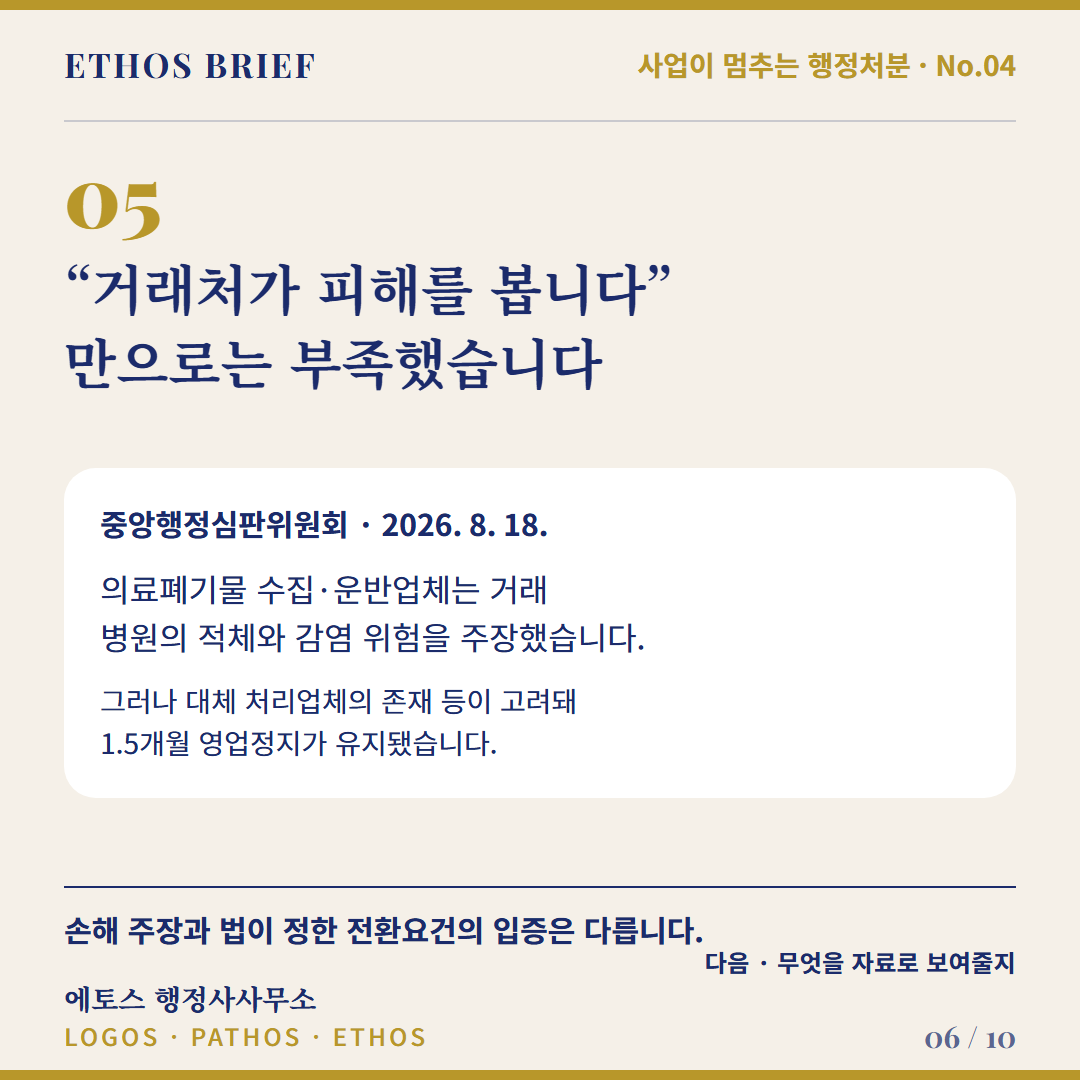
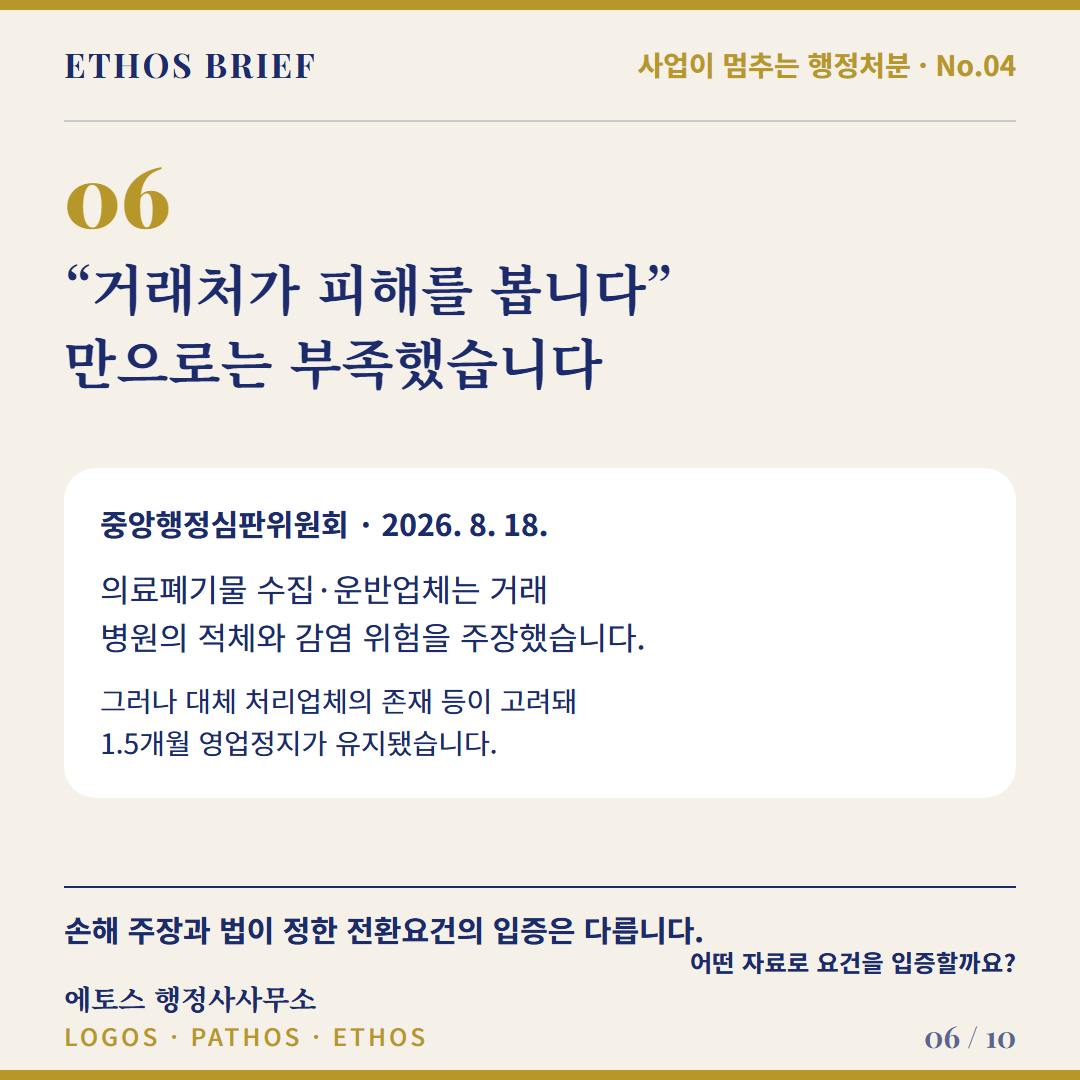
fix: clarify card navigation and numbering

Changed region(s): [[0.6417, 0.8556, 0.9472, 0.9167], [0.0917, 0.1528, 0.1528, 0.2139]]

diff --git a/content/SUSPENSION-SURCHARGE-04/ko/card_07.html b/content/SUSPENSION-SURCHARGE-04/ko/card_07.html
@@ -5,16 +5,16 @@
 <link rel="stylesheet" href="../../../templates/base.css">
 <link rel="stylesheet" href="../../../templates/card-types.css">
 </head><body>
-<div class="card cream lang-ko" data-card-type="checklist" data-bg="cream" data-page="7">
+<div class="card navy lang-ko" data-card-type="checklist" data-bg="navy" data-page="7">
   <div class="gold-top" data-frame="gold-top"></div>
   <div class="hdr"><span class="wm" data-frame="wordmark">ETHOS BRIEF</span><span class="sec" data-frame="section">사업이 멈추는 행정처분 · No.04</span></div>
   <div class="hl" data-frame="line"></div>
   <div class="body">
-    <div class="z-title" data-zone="title"><div class="kicker-num" data-decor>06</div><h2 class="h2" data-role="headline">폐기물 사건이라면, 이 자료가 판단을 만듭니다</h2></div>
+    <div class="z-title" data-zone="title"><div class="kicker-num" data-decor>07</div><h2 class="h2" data-role="headline">폐기물 사건이라면, 이 자료가 판단을 만듭니다</h2></div>
     <div class="z-main" data-zone="main"><div class="thresholds"><div class="threshold"><div class="threshold-key" data-role="label">1</div><div class="threshold-copy">보관량·거래처별 발생량</div></div><div class="threshold"><div class="threshold-key" data-role="label">2</div><div class="threshold-copy">반출주기·최대 보관기간</div></div><div class="threshold"><div class="threshold-key" data-role="label">3</div><div class="threshold-copy">영업정지 중 예상 적체량</div></div><div class="threshold"><div class="threshold-key" data-role="label">4</div><div class="threshold-copy">대체업체·대체계약 가능성</div></div></div></div>
     <div class="z-take" data-zone="take"><div class="take" data-role="takeaway">자료의 양보다 법정 요건과 연결되는지가 중요합니다.</div></div>
   </div>
-  <div class="page-turn" data-role="note">다음 · 가능성과 유리함은 다름</div>
+  <div class="page-turn" data-role="note">전환할 수 있으면 정말 유리할까요?</div>
   <div class="ftr"><div class="org" data-frame="org">에토스 행정사사무소</div><div class="tagl" data-frame="tagline">LOGOS · PATHOS · ETHOS</div><div class="pg" data-frame="page">07 / 10</div></div>
   <div class="gold-bottom" data-frame="gold-bottom"></div>
 </div></body></html>

diff --git a/content/SUSPENSION-SURCHARGE-04/en/card_07.html b/content/SUSPENSION-SURCHARGE-04/en/card_07.html
@@ -5,16 +5,16 @@
 <link rel="stylesheet" href="../../../templates/base.css">
 <link rel="stylesheet" href="../../../templates/card-types.css">
 </head><body>
-<div class="card cream lang-en" data-card-type="checklist" data-bg="cream" data-page="7">
+<div class="card navy lang-en" data-card-type="checklist" data-bg="navy" data-page="7">
   <div class="gold-top" data-frame="gold-top"></div>
   <div class="hdr"><span class="wm" data-frame="wordmark">ETHOS BRIEF</span><span class="sec" data-frame="section">Business Suspension · No.04</span></div>
   <div class="hl" data-frame="line"></div>
   <div class="body">
-    <div class="z-title" data-zone="title"><div class="kicker-num" data-decor>06</div><h2 class="h2" data-role="headline">For a waste case, these records shape the analysis</h2></div>
+    <div class="z-title" data-zone="title"><div class="kicker-num" data-decor>07</div><h2 class="h2" data-role="headline">For a waste case, these records shape the analysis</h2></div>
     <div class="z-main" data-zone="main"><div class="thresholds"><div class="threshold"><div class="threshold-key" data-role="label">1</div><div class="threshold-copy">Stored volume and client generation</div></div><div class="threshold"><div class="threshold-key" data-role="label">2</div><div class="threshold-copy">Collection cycle and maximum storage period</div></div><div class="threshold"><div class="threshold-key" data-role="label">3</div><div class="threshold-copy">Expected buildup during suspension</div></div><div class="threshold"><div class="threshold-key" data-role="label">4</div><div class="threshold-copy">Alternative operators and contracting options</div></div></div></div>
     <div class="z-take" data-zone="take"><div class="take" data-role="takeaway">Relevance to the statutory test matters more than document volume.</div></div>
   </div>
-  <div class="page-turn" data-role="note">NEXT · Available does not mean advisable</div>
+  <div class="page-turn" data-role="note">If conversion is available, is it actually better?</div>
   <div class="ftr"><div class="org" data-frame="org">Ethos Administrative Office</div><div class="tagl" data-frame="tagline">LOGOS · PATHOS · ETHOS</div><div class="pg" data-frame="page">07 / 10</div></div>
   <div class="gold-bottom" data-frame="gold-bottom"></div>
 </div></body></html>

diff --git a/content/SUSPENSION-SURCHARGE-04/ko/card_02.html b/content/SUSPENSION-SURCHARGE-04/ko/card_02.html
@@ -10,11 +10,11 @@
   <div class="hdr"><span class="wm" data-frame="wordmark">ETHOS BRIEF</span><span class="sec" data-frame="section">사업이 멈추는 행정처분 · No.04</span></div>
   <div class="hl" data-frame="line"></div>
   <div class="body">
-    <div class="z-title" data-zone="title"><div class="kicker-num" data-decor>01</div><h2 class="h2" data-role="headline">과징금 계산보다 먼저, 네 가지를 확인하세요</h2></div>
+    <div class="z-title" data-zone="title"><div class="kicker-num" data-decor>02</div><h2 class="h2" data-role="headline">과징금 계산보다 먼저, 네 가지를 확인하세요</h2></div>
     <div class="z-main" data-zone="main"><div class="thresholds"><div class="threshold"><div class="threshold-key" data-role="label">1</div><div class="threshold-copy">① 근거법률에 과징금 규정이 있나요?</div></div><div class="threshold"><div class="threshold-key" data-role="label">2</div><div class="threshold-copy">② 이번 위반은 제외대상인가요?</div></div><div class="threshold"><div class="threshold-key" data-role="label">3</div><div class="threshold-copy">③ 과거 처분 때문에 제한되나요?</div></div><div class="threshold"><div class="threshold-key" data-role="label">4</div><div class="threshold-copy">④ 가능하다면 실제로 유리한가요?</div></div></div></div>
     <div class="z-take" data-zone="take"><div class="editorial-close" data-role="takeaway">가능성과 실익은 서로 다른 질문입니다.</div></div>
   </div>
-  <div class="page-turn" data-role="note">다음 · 실제로 바뀐 사건</div>
+  <div class="page-turn" data-role="note">위반이 인정돼도 처분형태가 바뀔까요?</div>
   <div class="ftr"><div class="org" data-frame="org">에토스 행정사사무소</div><div class="tagl" data-frame="tagline">LOGOS · PATHOS · ETHOS</div><div class="pg" data-frame="page">02 / 10</div></div>
   <div class="gold-bottom" data-frame="gold-bottom"></div>
 </div></body></html>

diff --git a/content/SUSPENSION-SURCHARGE-04/ko/card_09.html b/content/SUSPENSION-SURCHARGE-04/ko/card_09.html
@@ -10,11 +10,11 @@
   <div class="hdr"><span class="wm" data-frame="wordmark">ETHOS BRIEF</span><span class="sec" data-frame="section">사업이 멈추는 행정처분 · No.04</span></div>
   <div class="hl" data-frame="line"></div>
   <div class="body">
-    <div class="z-title" data-zone="title"><div class="kicker-num" data-decor>08</div><h2 class="h2" data-role="headline">과징금으로 바뀌면 위반기록도 없어질까요?</h2></div>
+    <div class="z-title" data-zone="title"><div class="kicker-num" data-decor>09</div><h2 class="h2" data-role="headline">과징금으로 바뀌면 위반기록도 없어질까요?</h2></div>
     <div class="z-main" data-zone="main"><div class="rule-list"><div class="rule-item"><div class="rule-key" data-role="subheading"></div><div class="rule-copy">그렇지 않습니다.</div></div><div class="rule-item"><div class="rule-key" data-role="subheading"></div><div class="rule-copy">서울 사건에서도 위반사실은 인정됐고, 달라진 것은 처분형태였습니다.</div></div><div class="rule-item"><div class="rule-key" data-role="subheading"></div><div class="rule-copy">같은 위반이 다시 생겼을 때의 처분기준과 전환 제한은 해당 법률에 따라 따로 확인해야 합니다.</div></div></div></div>
     <div class="z-take" data-zone="take"><div class="editorial-close" data-role="takeaway">당장의 영업정지뿐 아니라 다음 처분에 미칠 영향까지 보세요.</div></div>
   </div>
-  <div class="page-turn" data-role="note">다음 · 최종 판단 순서</div>
+  <div class="page-turn" data-role="note">최종 결정은 어떤 순서로 해야 할까요?</div>
   <div class="ftr"><div class="org" data-frame="org">에토스 행정사사무소</div><div class="tagl" data-frame="tagline">LOGOS · PATHOS · ETHOS</div><div class="pg" data-frame="page">09 / 10</div></div>
   <div class="gold-bottom" data-frame="gold-bottom"></div>
 </div></body></html>

diff --git a/content/SUSPENSION-SURCHARGE-04/en/card_02.html b/content/SUSPENSION-SURCHARGE-04/en/card_02.html
@@ -10,11 +10,11 @@
   <div class="hdr"><span class="wm" data-frame="wordmark">ETHOS BRIEF</span><span class="sec" data-frame="section">Business Suspension · No.04</span></div>
   <div class="hl" data-frame="line"></div>
   <div class="body">
-    <div class="z-title" data-zone="title"><div class="kicker-num" data-decor>01</div><h2 class="h2" data-role="headline">Before estimating the amount, run these four checks</h2></div>
+    <div class="z-title" data-zone="title"><div class="kicker-num" data-decor>02</div><h2 class="h2" data-role="headline">Before estimating the amount, run these four checks</h2></div>
     <div class="z-main" data-zone="main"><div class="thresholds"><div class="threshold"><div class="threshold-key" data-role="label">1</div><div class="threshold-copy">1 Does the governing Act allow a surcharge?</div></div><div class="threshold"><div class="threshold-key" data-role="label">2</div><div class="threshold-copy">2 Is this violation excluded?</div></div><div class="threshold"><div class="threshold-key" data-role="label">3</div><div class="threshold-copy">3 Does a prior disposition restrict it?</div></div><div class="threshold"><div class="threshold-key" data-role="label">4</div><div class="threshold-copy">4 If available, would it actually help?</div></div></div></div>
     <div class="z-take" data-zone="take"><div class="editorial-close" data-role="takeaway">Legal availability and business value are different questions.</div></div>
   </div>
-  <div class="page-turn" data-role="note">NEXT · A suspension that changed</div>
+  <div class="page-turn" data-role="note">Can the disposition change when the violation remains?</div>
   <div class="ftr"><div class="org" data-frame="org">Ethos Administrative Office</div><div class="tagl" data-frame="tagline">LOGOS · PATHOS · ETHOS</div><div class="pg" data-frame="page">02 / 10</div></div>
   <div class="gold-bottom" data-frame="gold-bottom"></div>
 </div></body></html>

diff --git a/content/SUSPENSION-SURCHARGE-04/ko/card_04.html b/content/SUSPENSION-SURCHARGE-04/ko/card_04.html
@@ -10,11 +10,11 @@
   <div class="hdr"><span class="wm" data-frame="wordmark">ETHOS BRIEF</span><span class="sec" data-frame="section">사업이 멈추는 행정처분 · No.04</span></div>
   <div class="hl" data-frame="line"></div>
   <div class="body">
-    <div class="z-title" data-zone="title"><div class="kicker-num" data-decor>03</div><h2 class="h2" data-role="headline">음식점·폐기물·건설업, 출발점이 다릅니다</h2></div>
+    <div class="z-title" data-zone="title"><div class="kicker-num" data-decor>04</div><h2 class="h2" data-role="headline">음식점·폐기물·건설업, 출발점이 다릅니다</h2></div>
     <div class="z-main" data-zone="main"><div class="split"><div class="split-col"><div class="split-title" data-role="subheading">음식점</div><div class="split-copy">과징금 규정이 있어도 위반유형·차수·제외대상을 확인</div></div><div class="split-col"><div class="split-title" data-role="subheading">폐기물</div><div class="split-copy">법정 전환요건과 과거 과징금 처분까지 확인</div></div><div class="split-col"><div class="split-title" data-role="subheading">건설업</div><div class="split-copy">제82조 처분인지 제83조 등록기준 문제인지 구분</div></div></div></div>
     <div class="z-take" data-zone="take"><div class="take" data-role="takeaway">업종명보다 처분근거 조항을 먼저 보세요.</div></div>
   </div>
-  <div class="page-turn" data-role="note">다음 · 전환 가능성 거르기</div>
+  <div class="page-turn" data-role="note">전환 가능성은 어떤 순서로 걸러낼까요?</div>
   <div class="ftr"><div class="org" data-frame="org">에토스 행정사사무소</div><div class="tagl" data-frame="tagline">LOGOS · PATHOS · ETHOS</div><div class="pg" data-frame="page">04 / 10</div></div>
   <div class="gold-bottom" data-frame="gold-bottom"></div>
 </div></body></html>

diff --git a/content/SUSPENSION-SURCHARGE-04/ko/card_05.html b/content/SUSPENSION-SURCHARGE-04/ko/card_05.html
@@ -10,11 +10,11 @@
   <div class="hdr"><span class="wm" data-frame="wordmark">ETHOS BRIEF</span><span class="sec" data-frame="section">사업이 멈추는 행정처분 · No.04</span></div>
   <div class="hl" data-frame="line"></div>
   <div class="body">
-    <div class="z-title" data-zone="title"><div class="kicker-num" data-decor>04</div><h2 class="h2" data-role="headline">과징금 전환 가능성, 이 순서로 거르세요</h2></div>
+    <div class="z-title" data-zone="title"><div class="kicker-num" data-decor>05</div><h2 class="h2" data-role="headline">과징금 전환 가능성, 이 순서로 거르세요</h2></div>
     <div class="z-main" data-zone="main"><div class="process-steps"><div class="process-step"><div class="process-num" data-decor>01</div><div class="process-copy">1 근거 규정</div></div><div class="process-step"><div class="process-num" data-decor>02</div><div class="process-copy">2 제외대상</div></div><div class="process-step"><div class="process-num" data-decor>03</div><div class="process-copy">3 과거 처분 제한</div></div><div class="process-step"><div class="process-num" data-decor>04</div><div class="process-copy">4 법정 실질요건</div></div></div></div>
     <div class="z-take" data-zone="take"><div class="editorial-close" data-role="takeaway">앞 단계에서 막히면 금액 계산보다 다른 대응방향을 먼저 검토합니다.</div></div>
   </div>
-  <div class="page-turn" data-role="note">다음 · 사정 호소가 부족한 이유</div>
+  <div class="page-turn" data-role="note">손해를 주장하는 것만으로 충분할까요?</div>
   <div class="ftr"><div class="org" data-frame="org">에토스 행정사사무소</div><div class="tagl" data-frame="tagline">LOGOS · PATHOS · ETHOS</div><div class="pg" data-frame="page">05 / 10</div></div>
   <div class="gold-bottom" data-frame="gold-bottom"></div>
 </div></body></html>

diff --git a/content/SUSPENSION-SURCHARGE-04/ko/card_08.html b/content/SUSPENSION-SURCHARGE-04/ko/card_08.html
@@ -10,11 +10,11 @@
   <div class="hdr"><span class="wm" data-frame="wordmark">ETHOS BRIEF</span><span class="sec" data-frame="section">사업이 멈추는 행정처분 · No.04</span></div>
   <div class="hl" data-frame="line"></div>
   <div class="body">
-    <div class="z-title" data-zone="title"><div class="kicker-num" data-decor>07</div><h2 class="h2" data-role="headline">바꿀 수 있어도, 유리한지는 다시 계산해야 합니다</h2></div>
+    <div class="z-title" data-zone="title"><div class="kicker-num" data-decor>08</div><h2 class="h2" data-role="headline">바꿀 수 있어도, 유리한지는 다시 계산해야 합니다</h2></div>
     <div class="z-main" data-zone="main"><div class="split"><div class="split-col"><div class="split-title" data-role="subheading">과징금 전환 시</div><div class="split-copy">예상 과징금</div></div><div class="split-col"><div class="split-title" data-role="subheading">영업정지 유지 시</div><div class="split-copy">예상 영업손실 및 계속 나가는 고정비</div></div><div class="split-col"><div class="split-title" data-role="subheading">별도 확인</div><div class="split-copy">향후 반복위반 판단에 미칠 영향</div></div></div></div>
     <div class="z-take" data-zone="take"><div class="editorial-close" data-role="takeaway">가능하다는 결론 뒤에 비용과 다음 처분까지 비교하세요.</div></div>
   </div>
-  <div class="page-turn" data-role="note">다음 · 위반기록은 남는지</div>
+  <div class="page-turn" data-role="note">과징금으로 바뀌면 위반기록도 없어질까요?</div>
   <div class="ftr"><div class="org" data-frame="org">에토스 행정사사무소</div><div class="tagl" data-frame="tagline">LOGOS · PATHOS · ETHOS</div><div class="pg" data-frame="page">08 / 10</div></div>
   <div class="gold-bottom" data-frame="gold-bottom"></div>
 </div></body></html>

diff --git a/content/SUSPENSION-SURCHARGE-04/en/card_05.html b/content/SUSPENSION-SURCHARGE-04/en/card_05.html
@@ -10,11 +10,11 @@
   <div class="hdr"><span class="wm" data-frame="wordmark">ETHOS BRIEF</span><span class="sec" data-frame="section">Business Suspension · No.04</span></div>
   <div class="hl" data-frame="line"></div>
   <div class="body">
-    <div class="z-title" data-zone="title"><div class="kicker-num" data-decor>04</div><h2 class="h2" data-role="headline">Screen surcharge eligibility in this order</h2></div>
+    <div class="z-title" data-zone="title"><div class="kicker-num" data-decor>05</div><h2 class="h2" data-role="headline">Screen surcharge eligibility in this order</h2></div>
     <div class="z-main" data-zone="main"><div class="process-steps"><div class="process-step"><div class="process-num" data-decor>01</div><div class="process-copy">1 Enabling provision</div></div><div class="process-step"><div class="process-num" data-decor>02</div><div class="process-copy">2 Statutory exclusions</div></div><div class="process-step"><div class="process-num" data-decor>03</div><div class="process-copy">3 Prior-disposition limits</div></div><div class="process-step"><div class="process-num" data-decor>04</div><div class="process-copy">4 Substantive conditions</div></div></div></div>
     <div class="z-take" data-zone="take"><div class="editorial-close" data-role="takeaway">If an early gate fails, consider another response before calculating the amount.</div></div>
   </div>
-  <div class="page-turn" data-role="note">NEXT · Why hardship alone was not enough</div>
+  <div class="page-turn" data-role="note">Is business hardship alone enough?</div>
   <div class="ftr"><div class="org" data-frame="org">Ethos Administrative Office</div><div class="tagl" data-frame="tagline">LOGOS · PATHOS · ETHOS</div><div class="pg" data-frame="page">05 / 10</div></div>
   <div class="gold-bottom" data-frame="gold-bottom"></div>
 </div></body></html>

diff --git a/content/SUSPENSION-SURCHARGE-04/en/card_04.html b/content/SUSPENSION-SURCHARGE-04/en/card_04.html
@@ -10,11 +10,11 @@
   <div class="hdr"><span class="wm" data-frame="wordmark">ETHOS BRIEF</span><span class="sec" data-frame="section">Business Suspension · No.04</span></div>
   <div class="hl" data-frame="line"></div>
   <div class="body">
-    <div class="z-title" data-zone="title"><div class="kicker-num" data-decor>03</div><h2 class="h2" data-role="headline">Food, waste and construction cases start in different places</h2></div>
+    <div class="z-title" data-zone="title"><div class="kicker-num" data-decor>04</div><h2 class="h2" data-role="headline">Food, waste and construction cases start in different places</h2></div>
     <div class="z-main" data-zone="main"><div class="split"><div class="split-col"><div class="split-title" data-role="subheading">Food service</div><div class="split-copy">check the violation, count and exclusions</div></div><div class="split-col"><div class="split-title" data-role="subheading">Waste</div><div class="split-copy">prove the statutory conditions and check prior surcharge history</div></div><div class="split-col"><div class="split-title" data-role="subheading">Construction</div><div class="split-copy">distinguish Article 82 from an Article 83 registration case</div></div></div></div>
     <div class="z-take" data-zone="take"><div class="take" data-role="takeaway">Start with the legal basis, not the industry label.</div></div>
   </div>
-  <div class="page-turn" data-role="note">NEXT · Screen for eligibility</div>
+  <div class="page-turn" data-role="note">In what order should eligibility be screened?</div>
   <div class="ftr"><div class="org" data-frame="org">Ethos Administrative Office</div><div class="tagl" data-frame="tagline">LOGOS · PATHOS · ETHOS</div><div class="pg" data-frame="page">04 / 10</div></div>
   <div class="gold-bottom" data-frame="gold-bottom"></div>
 </div></body></html>

diff --git a/content/SUSPENSION-SURCHARGE-04/en/card_08.html b/content/SUSPENSION-SURCHARGE-04/en/card_08.html
@@ -10,11 +10,11 @@
   <div class="hdr"><span class="wm" data-frame="wordmark">ETHOS BRIEF</span><span class="sec" data-frame="section">Business Suspension · No.04</span></div>
   <div class="hl" data-frame="line"></div>
   <div class="body">
-    <div class="z-title" data-zone="title"><div class="kicker-num" data-decor>07</div><h2 class="h2" data-role="headline">Even if available, is conversion actually better?</h2></div>
+    <div class="z-title" data-zone="title"><div class="kicker-num" data-decor>08</div><h2 class="h2" data-role="headline">Even if available, is conversion actually better?</h2></div>
     <div class="z-main" data-zone="main"><div class="split"><div class="split-col"><div class="split-title" data-role="subheading">Convert</div><div class="split-copy">estimated surcharge</div></div><div class="split-col"><div class="split-title" data-role="subheading">Stay suspended</div><div class="split-copy">expected operating loss and continuing fixed costs</div></div><div class="split-col"><div class="split-title" data-role="subheading">Check separately</div><div class="split-copy">effect on a future repeat-violation analysis</div></div></div></div>
     <div class="z-take" data-zone="take"><div class="editorial-close" data-role="takeaway">After eligibility, compare cost and the effect on the next disposition.</div></div>
   </div>
-  <div class="page-turn" data-role="note">NEXT · What happens to the violation record</div>
+  <div class="page-turn" data-role="note">Does conversion erase the violation record?</div>
   <div class="ftr"><div class="org" data-frame="org">Ethos Administrative Office</div><div class="tagl" data-frame="tagline">LOGOS · PATHOS · ETHOS</div><div class="pg" data-frame="page">08 / 10</div></div>
   <div class="gold-bottom" data-frame="gold-bottom"></div>
 </div></body></html>

diff --git a/content/SUSPENSION-SURCHARGE-04/en/card_09.html b/content/SUSPENSION-SURCHARGE-04/en/card_09.html
@@ -10,11 +10,11 @@
   <div class="hdr"><span class="wm" data-frame="wordmark">ETHOS BRIEF</span><span class="sec" data-frame="section">Business Suspension · No.04</span></div>
   <div class="hl" data-frame="line"></div>
   <div class="body">
-    <div class="z-title" data-zone="title"><div class="kicker-num" data-decor>08</div><h2 class="h2" data-role="headline">Does a surcharge erase the violation record?</h2></div>
+    <div class="z-title" data-zone="title"><div class="kicker-num" data-decor>09</div><h2 class="h2" data-role="headline">Does a surcharge erase the violation record?</h2></div>
     <div class="z-main" data-zone="main"><div class="rule-list"><div class="rule-item"><div class="rule-key" data-role="subheading"></div><div class="rule-copy">No.</div></div><div class="rule-item"><div class="rule-key" data-role="subheading"></div><div class="rule-copy">In the Seoul case, the violation remained; only the form of disposition changed.</div></div><div class="rule-item"><div class="rule-key" data-role="subheading"></div><div class="rule-copy">The rules for a later repeat violation or another conversion limit must be checked under the applicable Act.</div></div></div></div>
     <div class="z-take" data-zone="take"><div class="editorial-close" data-role="takeaway">Look beyond today&#x27;s closure to the effect on the next disposition.</div></div>
   </div>
-  <div class="page-turn" data-role="note">NEXT · The full decision order</div>
+  <div class="page-turn" data-role="note">What is the full decision order?</div>
   <div class="ftr"><div class="org" data-frame="org">Ethos Administrative Office</div><div class="tagl" data-frame="tagline">LOGOS · PATHOS · ETHOS</div><div class="pg" data-frame="page">09 / 10</div></div>
   <div class="gold-bottom" data-frame="gold-bottom"></div>
 </div></body></html>
